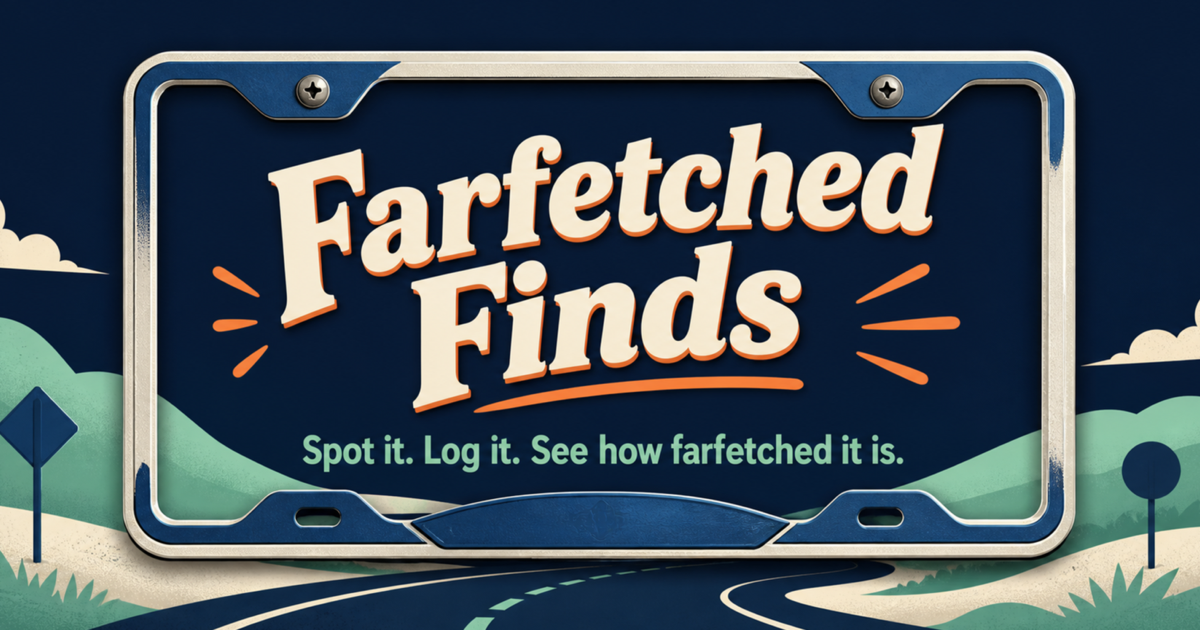
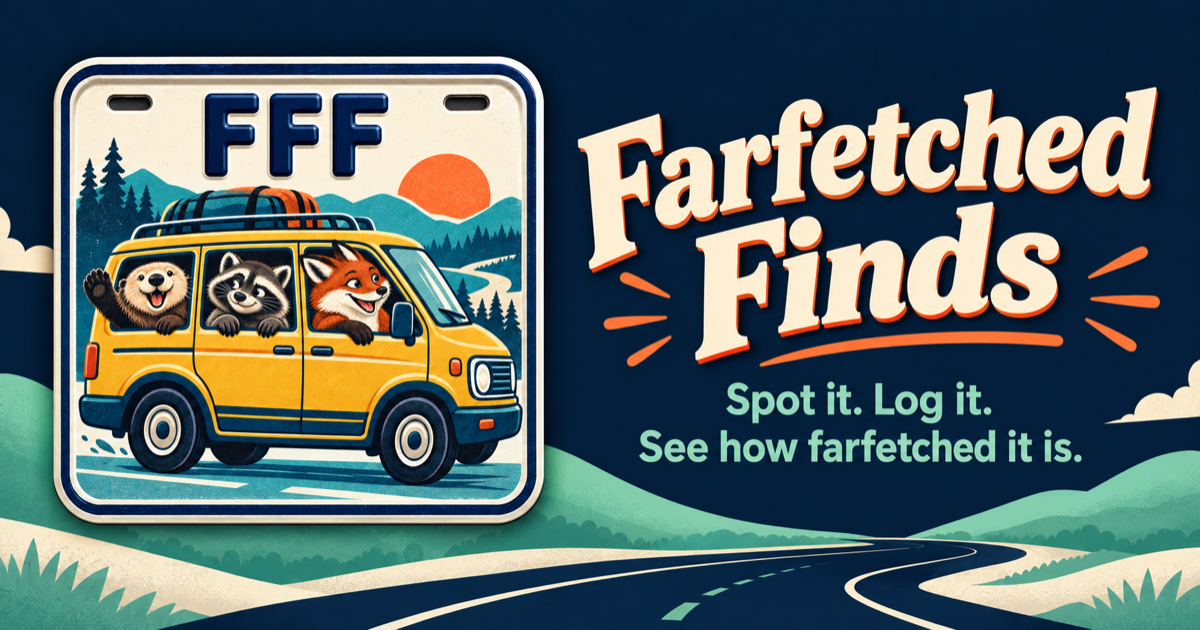
Publish Curious Sleuth branding across support pages

diff --git a/farfetched-finds/es/index.html b/farfetched-finds/es/index.html
@@ -12,19 +12,21 @@
     <meta property="og:title" content="Farfetched Finds">
     <meta property="og:description" content="Encuentra placas y vehículos inusuales, y calcula su rareza en el dispositivo según distancia, vehículos registrados, rutas y barreras.">
     <meta property="og:url" content="https://brandonvanbuskirk.github.io/farfetched-finds/es/">
-    <meta property="og:image" content="https://brandonvanbuskirk.github.io/assets/farfetched-finds-social-preview.png">
+    <meta property="og:image" content="https://brandonvanbuskirk.github.io/assets/farfetched-finds-social-preview.png?v=20260917">
     <meta name="twitter:card" content="summary_large_image">
     <meta name="twitter:title" content="Farfetched Finds">
     <meta name="twitter:description" content="Encuentra placas y vehículos inusuales, y calcula su rareza en el dispositivo según distancia, vehículos registrados, rutas y barreras.">
-    <meta name="twitter:image" content="https://brandonvanbuskirk.github.io/assets/farfetched-finds-social-preview.png">
+    <meta name="twitter:image" content="https://brandonvanbuskirk.github.io/assets/farfetched-finds-social-preview.png?v=20260917">
     <title>Farfetched Finds — El juego familiar para viajes</title>
-    <link rel="stylesheet" href="../../assets/site.css">
+    <link rel="stylesheet" href="../../assets/site.css?v=20260917">
+    <link rel="icon" type="image/png" sizes="32x32" href="../../assets/farfetched-finds-favicon.png">
+    <link rel="apple-touch-icon" sizes="180x180" href="../../assets/farfetched-finds-apple-touch-icon.png">
   </head>
   <body>
     <a class="skip-link" href="#main">Saltar al contenido</a>
     <header class="site-header">
       <a class="brand" href="./" aria-label="Inicio de Farfetched Finds">
-        <span class="brand-mark" aria-hidden="true">FFF</span>
+        <img class="brand-icon" src="../../assets/farfetched-finds-icon.png?v=20260917" width="44" height="44" alt="" aria-hidden="true">
         <span>Farfetched Finds</span>
       </a>
       <nav class="site-nav" aria-label="Navegación principal">
@@ -48,7 +50,7 @@
         </div>
 
         <div class="plate-frame" aria-label="Ícono de la app Farfetched Finds">
-          <img class="app-icon" src="../../assets/farfetched-finds-icon.png" alt="Ícono de la app Farfetched Finds">
+          <img class="app-icon" src="../../assets/farfetched-finds-icon.png?v=20260917" alt="Ícono de la app Farfetched Finds">
         </div>
       </section>
 

diff --git a/farfetched-finds/index.html b/farfetched-finds/index.html
@@ -11,19 +11,21 @@
     <meta property="og:title" content="Farfetched Finds">
     <meta property="og:description" content="Spot plates and unusual vehicles, then score their rarity on device using distance, supply, regional travel, and barriers.">
     <meta property="og:url" content="https://brandonvanbuskirk.github.io/farfetched-finds/">
-    <meta property="og:image" content="https://brandonvanbuskirk.github.io/assets/farfetched-finds-social-preview.png">
+    <meta property="og:image" content="https://brandonvanbuskirk.github.io/assets/farfetched-finds-social-preview.png?v=20260917">
     <meta name="twitter:card" content="summary_large_image">
     <meta name="twitter:title" content="Farfetched Finds">
     <meta name="twitter:description" content="Spot plates and unusual vehicles, then score their rarity on device using distance, supply, regional travel, and barriers.">
-    <meta name="twitter:image" content="https://brandonvanbuskirk.github.io/assets/farfetched-finds-social-preview.png">
+    <meta name="twitter:image" content="https://brandonvanbuskirk.github.io/assets/farfetched-finds-social-preview.png?v=20260917">
     <title>Farfetched Finds — The Family Road-Trip Spotting Game</title>
-    <link rel="stylesheet" href="../assets/site.css">
+    <link rel="stylesheet" href="../assets/site.css?v=20260917">
+    <link rel="icon" type="image/png" sizes="32x32" href="../assets/farfetched-finds-favicon.png">
+    <link rel="apple-touch-icon" sizes="180x180" href="../assets/farfetched-finds-apple-touch-icon.png">
   </head>
   <body>
     <a class="skip-link" href="#main">Skip to content</a>
     <header class="site-header">
       <a class="brand" href="../" aria-label="Brandon Van Buskirk home">
-        <span class="brand-mark" aria-hidden="true">FFF</span>
+        <img class="brand-icon" src="../assets/farfetched-finds-icon.png?v=20260917" width="44" height="44" alt="" aria-hidden="true">
         <span>Farfetched Finds</span>
       </a>
       <nav class="site-nav" aria-label="Main navigation">
@@ -47,7 +49,7 @@
         </div>
 
         <div class="plate-frame" aria-label="Farfetched Finds app icon">
-          <img class="app-icon" src="../assets/farfetched-finds-icon.png" alt="Farfetched Finds app icon">
+          <img class="app-icon" src="../assets/farfetched-finds-icon.png?v=20260917" alt="Farfetched Finds app icon">
         </div>
       </section>
 

diff --git a/farfetched-finds/es/privacy/index.html b/farfetched-finds/es/privacy/index.html
@@ -12,19 +12,21 @@
     <meta property="og:title" content="Política de privacidad — Farfetched Finds">
     <meta property="og:description" content="Cómo maneja Farfetched Finds la ubicación, el juego, los perfiles, los respaldos y el uso compartido opcional de iCloud.">
     <meta property="og:url" content="https://brandonvanbuskirk.github.io/farfetched-finds/es/privacy/">
-    <meta property="og:image" content="https://brandonvanbuskirk.github.io/assets/farfetched-finds-social-preview.png">
+    <meta property="og:image" content="https://brandonvanbuskirk.github.io/assets/farfetched-finds-social-preview.png?v=20260917">
     <meta name="twitter:card" content="summary_large_image">
     <meta name="twitter:title" content="Política de privacidad — Farfetched Finds">
     <meta name="twitter:description" content="Cómo maneja Farfetched Finds la ubicación, el juego, los perfiles, los respaldos y el uso compartido opcional de iCloud.">
-    <meta name="twitter:image" content="https://brandonvanbuskirk.github.io/assets/farfetched-finds-social-preview.png">
+    <meta name="twitter:image" content="https://brandonvanbuskirk.github.io/assets/farfetched-finds-social-preview.png?v=20260917">
     <title>Política de privacidad — Farfetched Finds</title>
-    <link rel="stylesheet" href="../../../assets/site.css">
+    <link rel="stylesheet" href="../../../assets/site.css?v=20260917">
+    <link rel="icon" type="image/png" sizes="32x32" href="../../../assets/farfetched-finds-favicon.png">
+    <link rel="apple-touch-icon" sizes="180x180" href="../../../assets/farfetched-finds-apple-touch-icon.png">
   </head>
   <body>
     <a class="skip-link" href="#main">Saltar al contenido</a>
     <header class="site-header">
       <a class="brand" href="../" aria-label="Descripción de Farfetched Finds">
-        <span class="brand-mark" aria-hidden="true">FFF</span>
+        <img class="brand-icon" src="../../../assets/farfetched-finds-icon.png?v=20260917" width="44" height="44" alt="" aria-hidden="true">
         <span>Farfetched Finds</span>
       </a>
       <nav class="site-nav" aria-label="Navegación principal">

diff --git a/farfetched-finds/es/support/index.html b/farfetched-finds/es/support/index.html
@@ -12,19 +12,21 @@
     <meta property="og:title" content="Soporte — Farfetched Finds">
     <meta property="og:description" content="Ayuda con hallazgos sin conexión, puntuación, compras, sincronización de iCloud y respaldos en Farfetched Finds.">
     <meta property="og:url" content="https://brandonvanbuskirk.github.io/farfetched-finds/es/support/">
-    <meta property="og:image" content="https://brandonvanbuskirk.github.io/assets/farfetched-finds-social-preview.png">
+    <meta property="og:image" content="https://brandonvanbuskirk.github.io/assets/farfetched-finds-social-preview.png?v=20260917">
     <meta name="twitter:card" content="summary_large_image">
     <meta name="twitter:title" content="Soporte — Farfetched Finds">
     <meta name="twitter:description" content="Ayuda con hallazgos sin conexión, puntuación, compras, sincronización de iCloud y respaldos en Farfetched Finds.">
-    <meta name="twitter:image" content="https://brandonvanbuskirk.github.io/assets/farfetched-finds-social-preview.png">
+    <meta name="twitter:image" content="https://brandonvanbuskirk.github.io/assets/farfetched-finds-social-preview.png?v=20260917">
     <title>Soporte — Farfetched Finds</title>
-    <link rel="stylesheet" href="../../../assets/site.css">
+    <link rel="stylesheet" href="../../../assets/site.css?v=20260917">
+    <link rel="icon" type="image/png" sizes="32x32" href="../../../assets/farfetched-finds-favicon.png">
+    <link rel="apple-touch-icon" sizes="180x180" href="../../../assets/farfetched-finds-apple-touch-icon.png">
   </head>
   <body>
     <a class="skip-link" href="#main">Saltar al contenido</a>
     <header class="site-header">
       <a class="brand" href="../" aria-label="Descripción de Farfetched Finds">
-        <span class="brand-mark" aria-hidden="true">FFF</span>
+        <img class="brand-icon" src="../../../assets/farfetched-finds-icon.png?v=20260917" width="44" height="44" alt="" aria-hidden="true">
         <span>Farfetched Finds</span>
       </a>
       <nav class="site-nav" aria-label="Navegación principal">

diff --git a/farfetched-finds/privacy/index.html b/farfetched-finds/privacy/index.html
@@ -11,19 +11,21 @@
     <meta property="og:title" content="Privacy Policy — Farfetched Finds">
     <meta property="og:description" content="How Farfetched Finds handles location, gameplay, profiles, backups, and optional iCloud sharing.">
     <meta property="og:url" content="https://brandonvanbuskirk.github.io/farfetched-finds/privacy/">
-    <meta property="og:image" content="https://brandonvanbuskirk.github.io/assets/farfetched-finds-social-preview.png">
+    <meta property="og:image" content="https://brandonvanbuskirk.github.io/assets/farfetched-finds-social-preview.png?v=20260917">
     <meta name="twitter:card" content="summary_large_image">
     <meta name="twitter:title" content="Privacy Policy — Farfetched Finds">
     <meta name="twitter:description" content="How Farfetched Finds handles location, gameplay, profiles, backups, and optional iCloud sharing.">
-    <meta name="twitter:image" content="https://brandonvanbuskirk.github.io/assets/farfetched-finds-social-preview.png">
+    <meta name="twitter:image" content="https://brandonvanbuskirk.github.io/assets/farfetched-finds-social-preview.png?v=20260917">
     <title>Privacy Policy — Farfetched Finds</title>
-    <link rel="stylesheet" href="../../assets/site.css">
+    <link rel="stylesheet" href="../../assets/site.css?v=20260917">
+    <link rel="icon" type="image/png" sizes="32x32" href="../../assets/farfetched-finds-favicon.png">
+    <link rel="apple-touch-icon" sizes="180x180" href="../../assets/farfetched-finds-apple-touch-icon.png">
   </head>
   <body>
     <a class="skip-link" href="#main">Skip to content</a>
     <header class="site-header">
       <a class="brand" href="../" aria-label="Farfetched Finds overview">
-        <span class="brand-mark" aria-hidden="true">FFF</span>
+        <img class="brand-icon" src="../../assets/farfetched-finds-icon.png?v=20260917" width="44" height="44" alt="" aria-hidden="true">
         <span>Farfetched Finds</span>
       </a>
       <nav class="site-nav" aria-label="Main navigation">

diff --git a/farfetched-finds/support/index.html b/farfetched-finds/support/index.html
@@ -11,19 +11,21 @@
     <meta property="og:title" content="Support — Farfetched Finds">
     <meta property="og:description" content="Help with offline finds, scoring, purchases, iCloud Family Party sync, and backups in Farfetched Finds.">
     <meta property="og:url" content="https://brandonvanbuskirk.github.io/farfetched-finds/support/">
-    <meta property="og:image" content="https://brandonvanbuskirk.github.io/assets/farfetched-finds-social-preview.png">
+    <meta property="og:image" content="https://brandonvanbuskirk.github.io/assets/farfetched-finds-social-preview.png?v=20260917">
     <meta name="twitter:card" content="summary_large_image">
     <meta name="twitter:title" content="Support — Farfetched Finds">
     <meta name="twitter:description" content="Help with offline finds, scoring, purchases, iCloud Family Party sync, and backups in Farfetched Finds.">
-    <meta name="twitter:image" content="https://brandonvanbuskirk.github.io/assets/farfetched-finds-social-preview.png">
+    <meta name="twitter:image" content="https://brandonvanbuskirk.github.io/assets/farfetched-finds-social-preview.png?v=20260917">
     <title>Support — Farfetched Finds</title>
-    <link rel="stylesheet" href="../../assets/site.css">
+    <link rel="stylesheet" href="../../assets/site.css?v=20260917">
+    <link rel="icon" type="image/png" sizes="32x32" href="../../assets/farfetched-finds-favicon.png">
+    <link rel="apple-touch-icon" sizes="180x180" href="../../assets/farfetched-finds-apple-touch-icon.png">
   </head>
   <body>
     <a class="skip-link" href="#main">Skip to content</a>
     <header class="site-header">
       <a class="brand" href="../" aria-label="Farfetched Finds overview">
-        <span class="brand-mark" aria-hidden="true">FFF</span>
+        <img class="brand-icon" src="../../assets/farfetched-finds-icon.png?v=20260917" width="44" height="44" alt="" aria-hidden="true">
         <span>Farfetched Finds</span>
       </a>
       <nav class="site-nav" aria-label="Main navigation">

diff --git a/index.html b/index.html
@@ -10,11 +10,11 @@
     <meta property="og:title" content="Farfetched Finds — by Brandon Van Buskirk">
     <meta property="og:description" content="Spot it. Log it. See how farfetched it is.">
     <meta property="og:url" content="https://brandonvanbuskirk.github.io/">
-    <meta property="og:image" content="https://brandonvanbuskirk.github.io/assets/farfetched-finds-social-preview.png">
+    <meta property="og:image" content="https://brandonvanbuskirk.github.io/assets/farfetched-finds-social-preview.png?v=20260917">
     <meta name="twitter:card" content="summary_large_image">
     <meta name="twitter:title" content="Farfetched Finds — by Brandon Van Buskirk">
     <meta name="twitter:description" content="Spot it. Log it. See how farfetched it is.">
-    <meta name="twitter:image" content="https://brandonvanbuskirk.github.io/assets/farfetched-finds-social-preview.png">
+    <meta name="twitter:image" content="https://brandonvanbuskirk.github.io/assets/farfetched-finds-social-preview.png?v=20260917">
     <title>Brandon Van Buskirk — Independent iOS Apps</title>
     <link rel="stylesheet" href="./assets/site.css">
   </head>
@@ -45,7 +45,7 @@
         </div>
 
         <div class="plate-frame" aria-label="Farfetched Finds app icon">
-          <img class="app-icon" src="./assets/farfetched-finds-icon.png" alt="Farfetched Finds app icon">
+          <img class="app-icon" src="./assets/farfetched-finds-icon.png?v=20260917" alt="Farfetched Finds app icon">
         </div>
       </section>
 

diff --git a/assets/site.css b/assets/site.css
@@ -98,6 +98,15 @@ button:focus-visible {
   width: 3.25rem;
 }
 
+.brand-icon {
+  border-radius: 20%;
+  display: block;
+  flex: 0 0 auto;
+  height: 2.75rem;
+  object-fit: contain;
+  width: 2.75rem;
+}
+
 .site-nav {
   align-items: center;
   display: flex;
